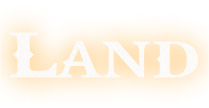
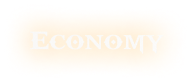
new text

Changed region(s): [[0.0, 0.241, 0.7732, 0.8193], [0.7423, 0.3373, 0.9897, 0.7711], [0.3093, 0.4096, 0.3402, 0.4819]]

diff --git a/frontend/css/index.css b/frontend/css/index.css
@@ -419,7 +419,7 @@ z-index: 1;
   width: 2.3rem;
   height: 1rem;
   background: url(../images/box4/text/land.png) no-repeat center;
-  background-size: 50%;
+  background-size: 100%;
 }
 .jade .text4 {
   position: absolute;
@@ -442,11 +442,11 @@ z-index: 1;
 .jade .text6 {
   position: absolute;
   top: 2.7rem;
-  left: 6.5rem;
+  left: 6.3rem;
   width: 2.3rem;
   height: 1rem;
   background: url(../images/box4/text/WAR.png) no-repeat;
-  background-size: 65%;
+  background-size: 100%;
 }
 .jade .area1 {
   position: absolute;
@@ -871,7 +871,7 @@ z-index: 1;
   width: 1rem;
   height: 0.35rem;
   background: url(../images/box4/text/land.png) no-repeat center;
-  background-size: 50%;
+  background-size: 100%;
 }
 .jade .text4 {
   position: absolute;
@@ -893,12 +893,12 @@ z-index: 1;
 }
 .jade .text6 {
   position: absolute;
-  top: 2rem;
+  top: 1.9rem;
   left: 3.4rem;
   width: 1rem;
-  height: 0.4rem;
+  height: 0.5rem;
   background: url(../images/box4/text/WAR.png) no-repeat;
-  background-size: 65%;
+  background-size: 100%;
 }
 .jade .area1 {
   position: absolute;

diff --git a/frontend/index.html b/frontend/index.html
@@ -295,7 +295,7 @@ area4.addEventListener('mouseleave', () => {
   area4.style.cursor = 'default';
   text3.style.backgroundImage = "url(./images/box4/text/land.png)";
     text3.style.transition = 'background-image 0.1s ease-in-out';
-    text3.style.backgroundSize  = '65%';
+    text3.style.backgroundSize  = '100%';
   backImage.style.backgroundImage = `url(${preloadImages[6]})`;
 });
 area5.addEventListener('mouseenter', async () => {
@@ -316,7 +316,7 @@ area5.addEventListener('mouseleave', () => {
   area5.style.cursor = 'default';
   text6.style.backgroundImage = "url(./images/box4/text/WAR.png)";
     text6.style.transition = 'background-image 0.1s ease-in-out';
-    text6.style.backgroundSize  = '65%';
+    text6.style.backgroundSize  = '100%';
   backImage.style.backgroundImage = `url(${preloadImages[6]})`;
 });
 area6.addEventListener('mouseenter', async () => {
